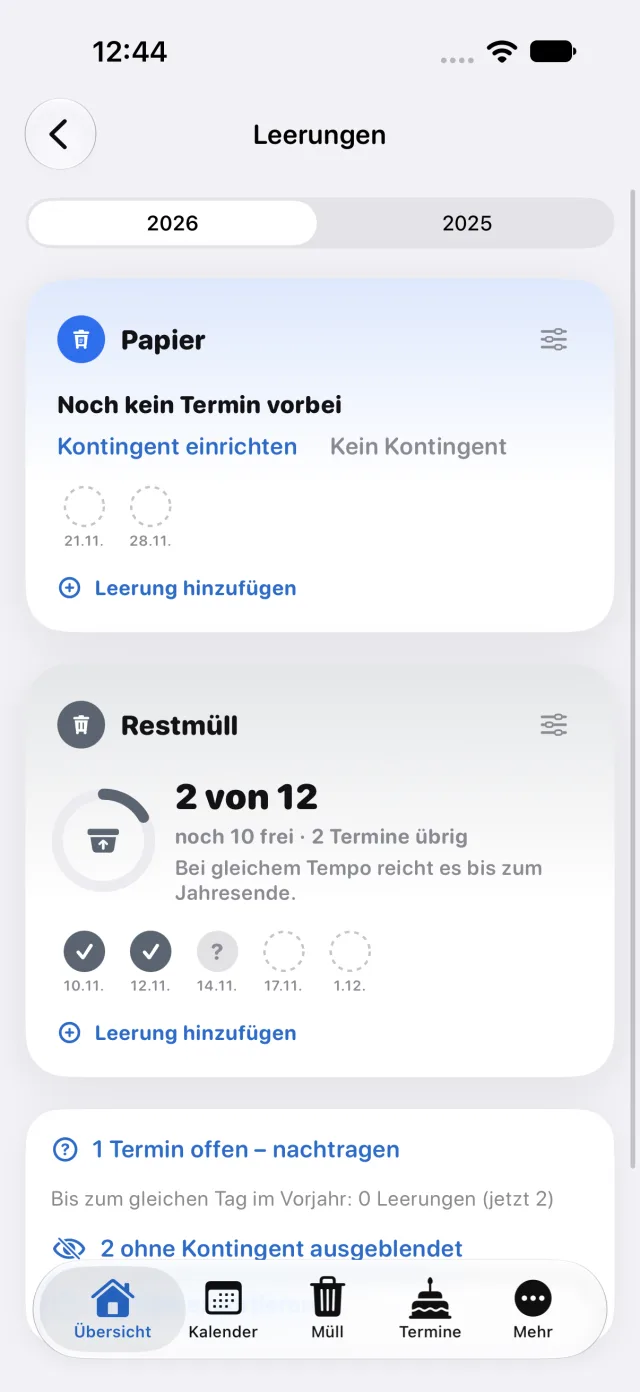
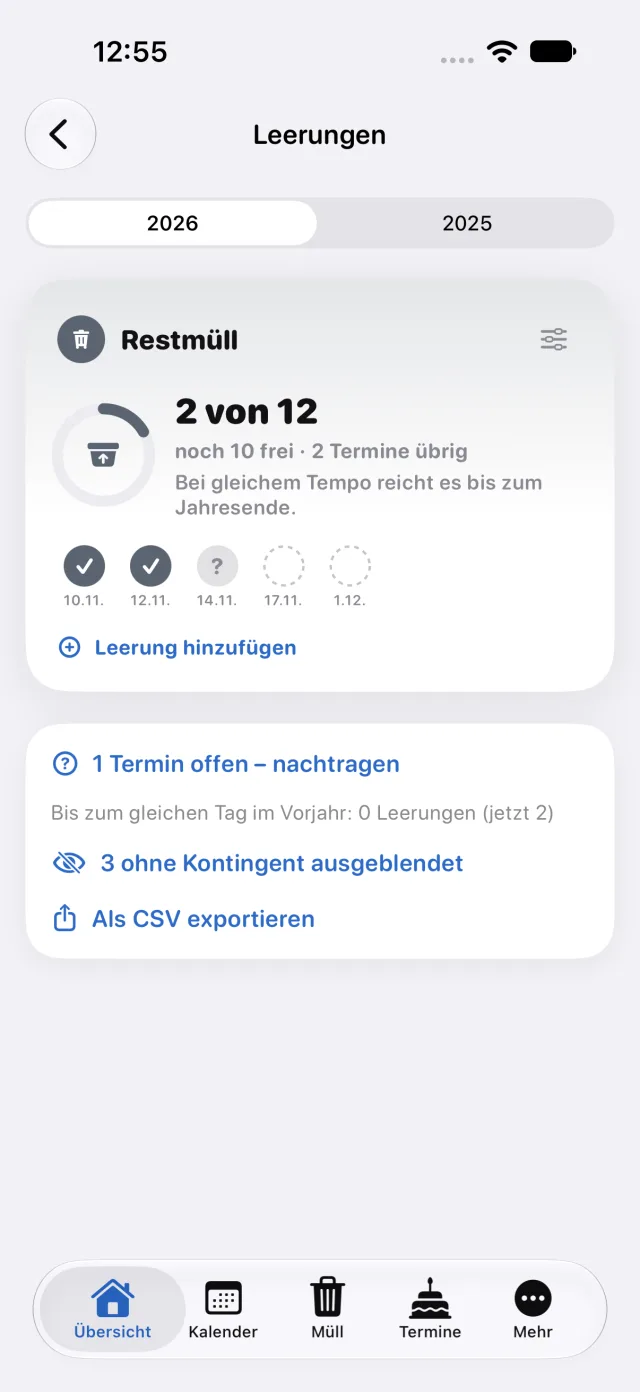
feat(web): Statistik-Bild nur mit Restmüll, drei Müllarten ohne Kontingent ausgeblendet

diff --git a/TonneUITests/TonneUITests.swift b/TonneUITests/TonneUITests.swift
@@ -368,9 +368,9 @@ final class TonneUITests: XCTestCase {
         mark(-4)
         XCTAssertTrue(waitHeadline("2 von 12"), "zwei markierte Termine zählen nicht")
 
-        // „Kein Kontingent“ blendet Schadstoffmobil und Gelber Sack aus; die gezählte Müllart hat den Knopf nicht
+        // „Kein Kontingent“ blendet Papier, Schadstoffmobil und Gelber Sack aus; die gezählte Müllart hat den Knopf nicht
         XCTAssertFalse(app.buttons["quotaNone-Restmüll"].exists, "gezählte Müllart bietet „Kein Kontingent“ an")
-        for name in ["Schadstoffmobil", "Gelber Sack"] {
+        for name in ["Papier", "Schadstoffmobil", "Gelber Sack"] {
             let none = app.buttons["quotaNone-\(name)"].firstMatch
             for _ in 0..<4 where !(none.exists && none.isHittable) { app.swipeUp() }
             XCTAssertTrue(none.waitForExistence(timeout: 3), "„Kein Kontingent“ fehlt bei \(name)")
@@ -382,11 +382,11 @@ final class TonneUITests: XCTestCase {
         // Über das Menü unten wieder einblenden
         let hidden = app.buttons["statsHidden"].firstMatch
         for _ in 0..<5 where !(hidden.exists && hidden.isHittable) { app.swipeUp() }
-        XCTAssertTrue(hidden.label.contains("2 ohne Kontingent ausgeblendet"), "Menü nennt \(hidden.label)")
+        XCTAssertTrue(hidden.label.contains("3 ohne Kontingent ausgeblendet"), "Menü nennt \(hidden.label)")
         hidden.tap()
         app.buttons["Gelber Sack"].firstMatch.tap()
         XCTAssertTrue(app.staticTexts["quotaHeadline-Gelber Sack"].waitForExistence(timeout: 3), "Gelber Sack kommt nicht zurück")
-        XCTAssertTrue(hidden.label.contains("1 ohne Kontingent ausgeblendet"))
+        XCTAssertTrue(hidden.label.contains("2 ohne Kontingent ausgeblendet"))
         for _ in 0..<4 { app.swipeDown() }
 
         // Übersicht: der dritte Termin steht zum Nachtragen bereit

diff --git a/website/index.html b/website/index.html
@@ -78,7 +78,7 @@
             <li><strong>Dein Gebührenjahr.</strong> Eigener Stichtag, Preis je Zusatzleerung, Export als CSV.</li>
           </ul>
         </div>
-        <div class="phone"><img src="img/app-statistik.webp" alt="Leerungs-Statistik der App: Restmüll 2 von 12, noch 10 frei, bei gleichem Tempo reicht es bis zum Jahresende; unten 2 Müllarten ohne Kontingent ausgeblendet" width="640" height="1391" loading="lazy"></div>
+        <div class="phone"><img src="img/app-statistik.webp" alt="Leerungs-Statistik der App: Restmüll 2 von 12, noch 10 frei, bei gleichem Tempo reicht es bis zum Jahresende; unten 3 Müllarten ohne Kontingent ausgeblendet" width="640" height="1391" loading="lazy"></div>
       </article>
 
       <article class="feature flip reveal" aria-labelledby="neu-schrift">
